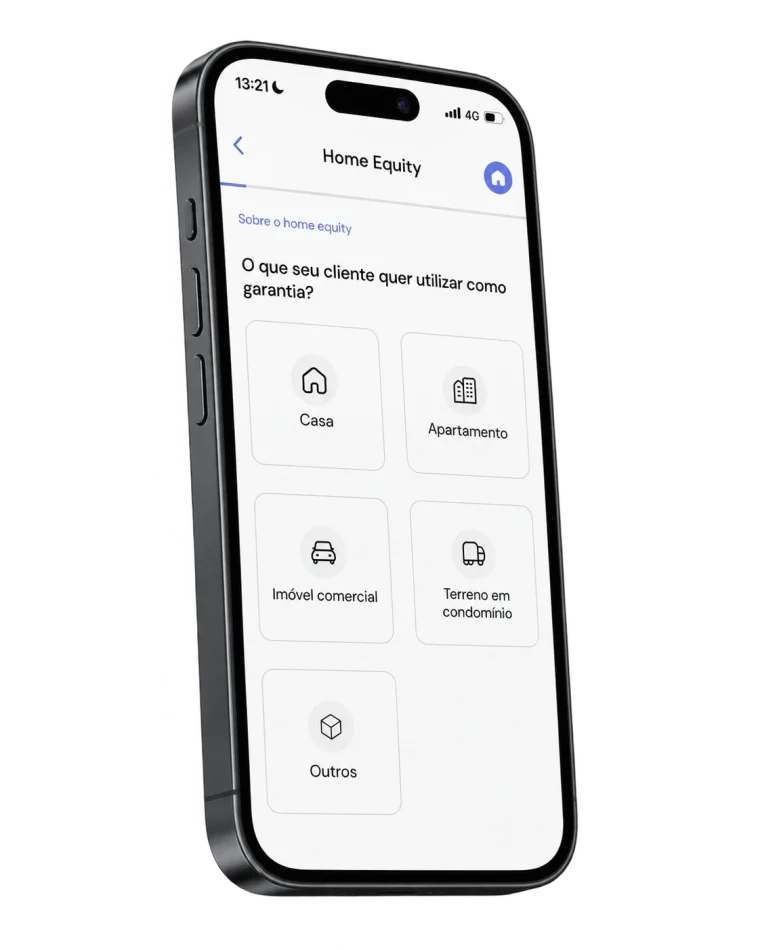
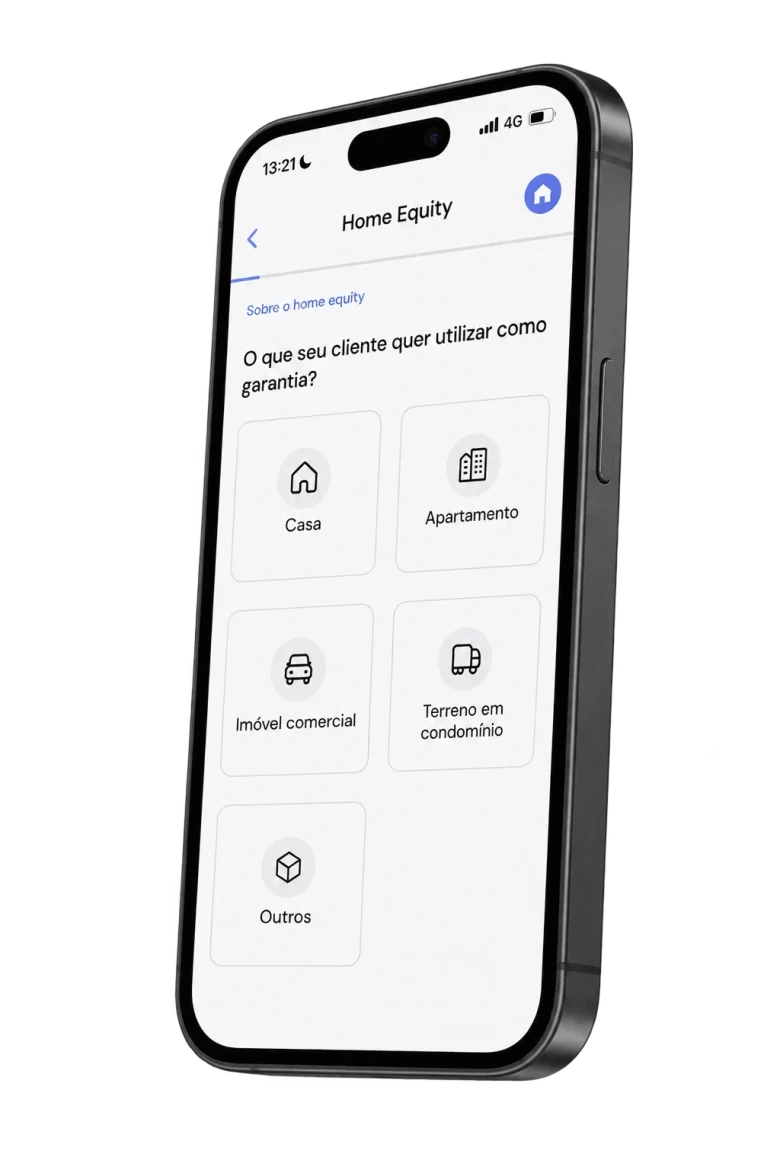
Novo render do iPhone, e correção de um esticamento latente
Troca do arquivo do hero. 84 KB -> 49 KB em webp a 780px.

A troca revelou um bug que estava passando: a altura do render é fixa e a
largura é limitada pela coluna, então com o object-fit: fill padrão o
arquivo era esticado para preencher a caixa. O render anterior, de
proporção 1:1,25, saía exibido em 1:1,51 — 21% mais alto do que é. O que
denunciou foi o novo medir exatamente a mesma caixa apesar de ter outra
proporção.

Com object-fit: contain a proporção é preservada qualquer que seja o
arquivo, e a sobra da caixa é invisível porque o fundo é transparente.
Medido: 0,00% de distorção em 1440 e 390.

diff --git a/assets/css/lp.css b/assets/css/lp.css
@@ -725,8 +725,12 @@ a, button, summary, label { -webkit-tap-highlight-color: rgba(220,255,121,.2); }
   --dy: 0px;    /* scroll */
   display: block;
   height: clamp(420px, 46vw, 580px);
-  width: auto;
-  max-width: 100%;
+  width: 100%;
+  /* `contain`, não o `fill` padrão: a altura é fixa e a largura é limitada
+     pela coluna, então sem isto o render é ESTICADO para preencher a caixa —
+     o aparelho anterior saía 21% mais alto do que é. Com o fundo
+     transparente, a sobra do contain é invisível. */
+  object-fit: contain;
   transform: translate3d(var(--dx), calc(var(--my) + var(--dy)), 0);
   will-change: transform;
 }

diff --git a/index.html b/index.html
@@ -86,7 +86,7 @@
            hero. O palco segue dando a animação de entrada e o parallax. -->
       <div class="fq-fone-palco" id="fone-palco" data-entra>
         <img class="fq-fone" id="fone" src="assets/img/befranq-iphone.webp"
-             width="760" height="950" loading="eager" decoding="async"
+             width="780" height="1170" loading="eager" decoding="async"
              alt="Um iPhone com a plataforma beFranq aberta, na tela de Home Equity, perguntando que bem o cliente quer usar como garantia">
         <span class="fq-fone__sombra" aria-hidden="true"></span>
       </div>

diff --git a/HANDOFF-v2.md b/HANDOFF-v2.md
@@ -734,7 +734,19 @@ no arquivo, saíram do CSS as peças que os desenhavam — `__corpo`, `__tela`,
 chão e o próprio `<img>`. A captura solta do beFranq também saiu: o render já a
 contém.
 
-Peso: 98 KB → **48 KB** em webp a 760px, que é 2× o tamanho de exibição.
+Peso: 84 KB → **49 KB** em webp a 780px, que é 2× o tamanho de exibição.
+
+**Um bug latente que a segunda troca de render revelou.** A altura é fixa
+(`clamp`) e a largura é limitada pela coluna, então com o `object-fit: fill`
+padrão o arquivo era **esticado** para preencher a caixa. O render que estava
+antes, de proporção 1:1,25, saía exibido em 1:1,51 — **21% mais alto do que é**,
+e eu não tinha notado. O que denunciou foi o novo medir exatamente a mesma
+caixa apesar de ter outra proporção.
+
+Resolvido com `object-fit: contain`: a imagem preserva a proporção qualquer que
+seja o arquivo, e como o fundo é transparente a sobra da caixa é invisível.
+Medido: **0,00% de distorção** em 1440 e em 390px. Trocar o render agora é só
+trocar o arquivo — a página não o deforma.
 
 **Um ganho que o render trouxe de graça:** antes a captura de celular precisava
 caber numa tela 9:19,5 desenhada em CSS, e eu media quanto o `cover` descartava.
